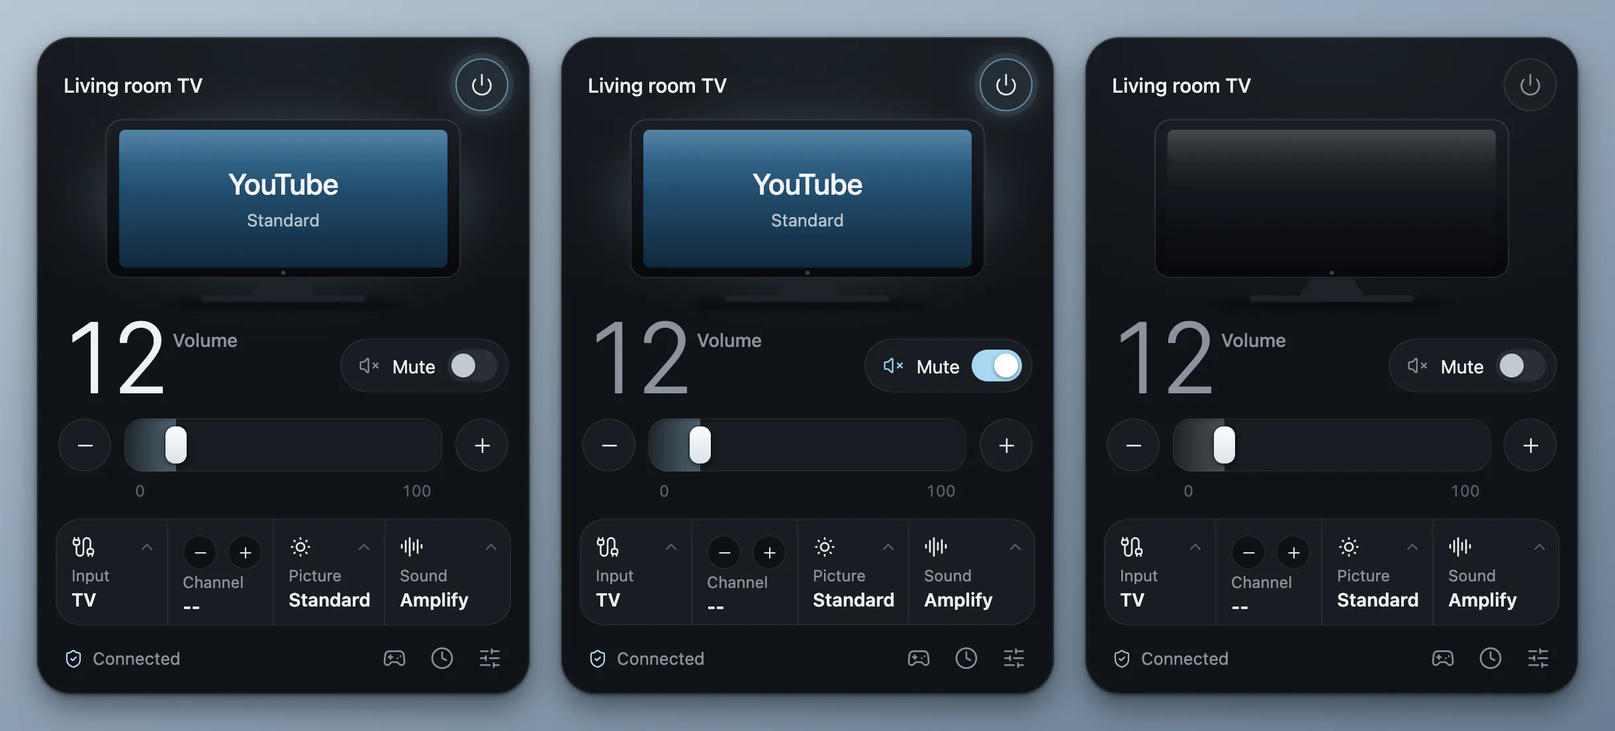
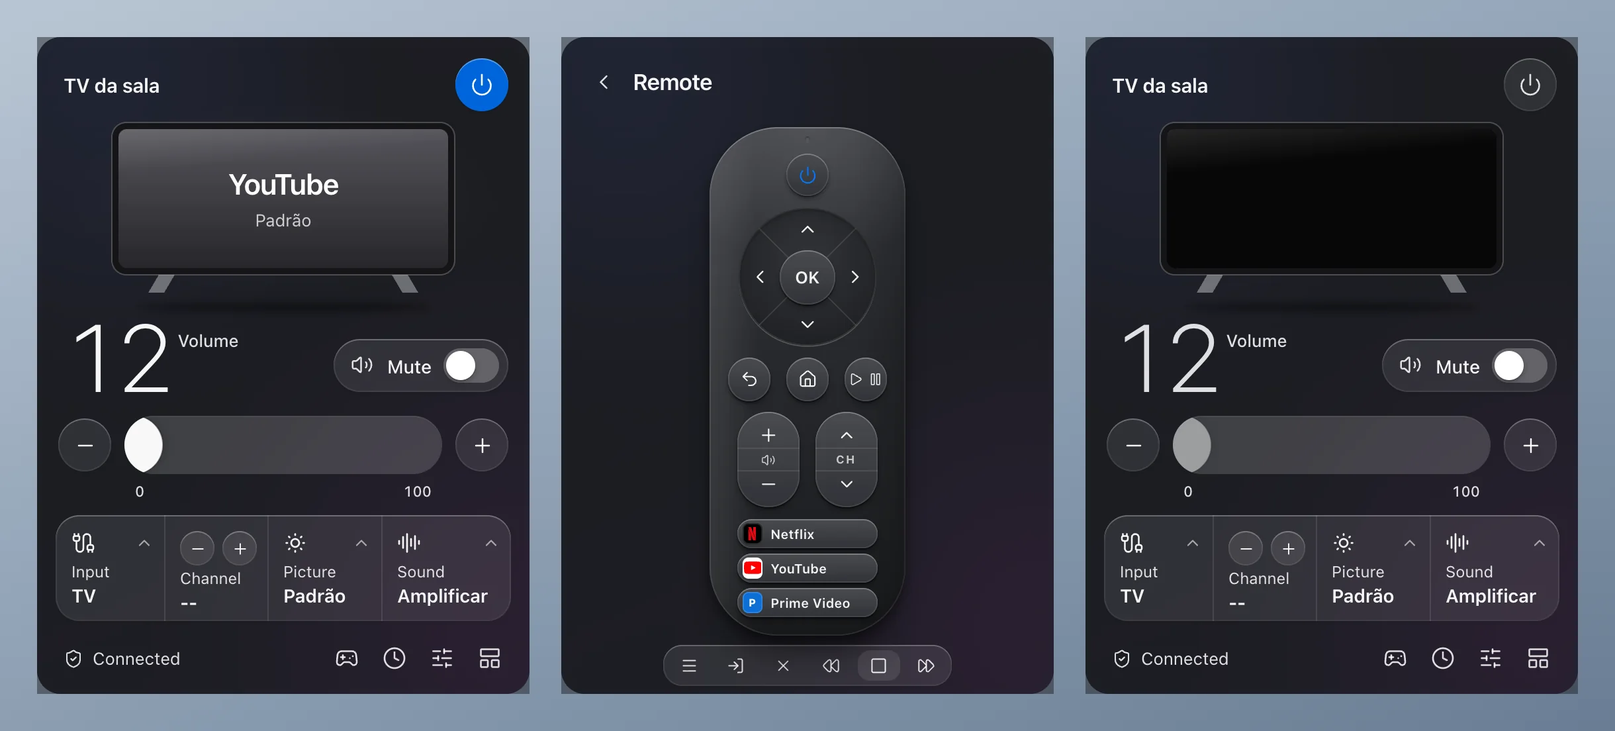
docs: update README, screenshots and demo for 0.2.0
The screenshots and the demo show the native look, the two panel styles
and the drawn remote. The README describes both styles, the remote's keys
and keyboard shortcuts, and credits Simple Icons for the app marks.

diff --git a/panel/page-apps.js b/panel/page-apps.js
@@ -1,5 +1,5 @@
 /* Apps: a grid of badges on its own page (a tab of the tabbed layout), and the shortcuts on the drawn remote. The list lives
-   in TV_APPS (labels.js). A badge is a colour block with an initial; official logos are not reproduced. */
+   in TV_APPS (labels.js). A badge is the app's mark when TV_APPS carries one, else a colour block with an initial. */
 
 function renderAppGrid() {
   byId('app-grid').replaceChildren(

diff --git a/README.md b/README.md
@@ -44,15 +44,15 @@ curl -fsSL https://raw.githubusercontent.com/kevinnfsilva/samsung-tv-menubar-app
 </div>
 
 <p align="center">
-  <img src="docs/hero.pt-BR.webp" width="830" alt="O painel do TV Remote em três estados: ligada com volume 12, com o mudo ligado e desligada" />
+  <img src="docs/hero.pt-BR.webp" width="830" alt="O painel compacto do TV Remote em três estados: ligada com volume 12, com o controle remoto aberto e desligada" />
 </p>
 
-Um painel na barra de menus do Mac para controlar uma TV Samsung pelo SmartThings. O ícone mostra o volume e, com um clique, abre o painel: ligar e desligar, volume, mudo, entrada, imagem, som, canal e um controle remoto na tela, com atalhos para Netflix, YouTube, Prime Video e Disney+.
+Um painel na barra de menus do Mac para controlar uma TV Samsung pelo SmartThings. O ícone mostra o volume e, com um clique, abre o painel: ligar e desligar, volume, mudo, entrada, imagem, som, canal e um controle remoto desenhado, com atalhos para Netflix, YouTube, Prime Video e Disney+.
 
 Este projeto nasceu do [WindFree](https://github.com/kevinnfsilva/samsung-windfree-menubar-app), o painel do ar-condicionado Samsung, e usa o mesmo código, com a parte da TV no lugar da parte do ar. O WindFree, por sua vez, é baseado no [app de bandeja para Windows](https://github.com/c0dag/samsung-windfree-tray-app) do [@c0dag](https://github.com/c0dag), que foi portado para a barra de menus do macOS.
 
 <p align="center">
-  <img src="docs/demo.pt-BR.gif" width="420" alt="Demonstração: o volume sobe, o mudo é ligado, a lista de entradas abre e a entrada muda para HDMI 2, o Controle abre e a Netflix é aberta" />
+  <img src="docs/demo.pt-BR.gif" width="420" alt="Demonstração: o volume sobe, o Controle abre, as teclas acendem a luz e a Netflix é aberta; o painel troca para as abas e volta" />
 </p>
 
 <p align="center"><sub>As imagens e a demonstração saem do código real do painel, com uma TV simulada. O ponteiro do vídeo foi desenhado por cima.</sub></p>
@@ -135,11 +135,14 @@ Com a barra de menus cheia, o que é comum nos MacBooks com notch, o ícone novo
 
 ## O que dá para fazer
 
+**Novidades da 0.2.0.** O painel usa o visual nativo do macOS: o material translúcido do sistema, os cantos e a sombra do sistema, controles no estilo da Central de Controle e uma só cor de destaque, a cor de destaque do sistema. O painel tem dois estilos, **Compacto** (o padrão) e **Abas**, trocados com um clique. O controle remoto agora é desenhado, nos dois estilos, com teclado próprio e uma luz que pisca a cada comando. Netflix e YouTube mostram a marca de cada app; Prime Video e Disney+ têm um selo desenhado. Há animações na abertura do painel, nos botões, na tela da TV, no volume, nos menus e nas trocas de página e de aba.
+
 - Ligar e desligar a TV pelo botão do painel, pelo menu do ícone ou com a tecla Espaço.
 - Ajustar o volume de 0 a 100 pelo controle deslizante, pelos botões − e + ou pelas setas ↑ e ↓. Ligar e desligar o mudo.
 - Trocar a **entrada**, o **modo de imagem** e o **modo de som**. As opções são as que a TV informa.
 - Trocar de canal com os botões − e + do cartão **Canal**, quando a TV informa o canal.
-- Usar o **Controle**: direcional, OK, Voltar, Início, Menu, botões de reprodução e atalhos para Netflix, YouTube, Prime Video e Disney+.
+- Usar o **Controle** desenhado: direcional, OK, Voltar, Início, teclas de volume, de canal e de app, botões de reprodução, Menu, Fonte e Sair. Também dá para usar o teclado.
+- Escolher o estilo do painel, **Compacto** ou **Abas**, com um clique.
 - Programar um **timer** (de 30 minutos a 8 horas) e **agendamentos** por horário e dia da semana.
 - Receber avisos: a TV ficar offline e a TV ficar ligada por muito tempo.
 - Abrir o painel por um atalho global (desligado por padrão).
@@ -147,7 +150,7 @@ Com a barra de menus cheia, o que é comum nos MacBooks com notch, o ícone novo
 - Aparência clara ou escura, seguindo o sistema, e telas em português ou inglês.
 - Mostrar o volume no ícone da barra de menus, abrir com o macOS, esconder o ícone do Dock e saber quando sai uma versão nova.
 
-Testado numa Samsung Crystal UHD de 75 polegadas (UN75CU8000): ligar e desligar pela rede, volume, mudo, modo de imagem, modo de som, abrir YouTube e Netflix, a tecla Início e as teclas de canal funcionaram. As setas, Voltar e play/pause são enviadas, mas a TV não informa se a tela mudou. O modo de imagem só muda enquanto alguma coisa está tocando. Timer, agendamentos e avisos foram testados só com uma TV simulada. Os atalhos de Prime Video e Disney+ não foram testados na TV. O instalador para Intel e o Windows não foram executados.
+Testado numa Samsung Crystal UHD de 75 polegadas (UN75CU8000) com o visual da 0.2.0: ligar e desligar pelo painel, trocar de estilo e as teclas de volume do controle desenhado. Continuam valendo os testes da 0.1.0, porque os comandos são os mesmos: ligar e desligar pela rede, volume, mudo, modo de imagem, modo de som, abrir YouTube e Netflix, a tecla Início e as teclas de canal funcionaram. As setas, Voltar e play/pause são enviadas, mas a TV não informa se a tela mudou. O modo de imagem só muda enquanto alguma coisa está tocando. Timer, agendamentos e avisos foram testados só com uma TV simulada. Os atalhos de Prime Video e Disney+ não foram testados na TV. O instalador para Intel e o Windows não foram executados.
 
 ## Uso
 
@@ -163,35 +166,59 @@ Testado numa Samsung Crystal UHD de 75 polegadas (UN75CU8000): ligar e desligar 
 
 ### O painel
 
-De cima para baixo:
+**Compacto** (o padrão) cabe numa tela só, de cima para baixo:
 
 - O nome da TV e o botão que liga e desliga a TV.
 - A tela da TV: mostra o app em uso (YouTube, Netflix e outros que o app reconhece) ou, se nenhum for reconhecido, a entrada, e embaixo o modo de imagem. Com a TV desligada, a tela fica escura.
 - O volume em número grande, o interruptor **Mudo**, o controle deslizante e os botões − e +.
-- Quatro cartões: **Entrada**, **Canal** (com − e +), **Imagem** e **Som**. Entrada, Imagem e Som abrem uma lista com as opções que a TV informa.
-- O rodapé mostra o estado, como "Conectado", "Sincronizando…" ou "A TV está offline", e tem os botões **Controle**, **Timer** e **Ajustes**.
+- Uma faixa com quatro células: **Entrada**, **Canal** (com − e +), **Imagem** e **Som**. Entrada, Imagem e Som abrem uma lista com as opções que a TV informa.
+- O rodapé mostra o estado, como "Conectado", "Sincronizando…" ou "A TV está offline", e tem os botões **Controle**, **Timer**, **Ajustes** e o de layout (veja abaixo).
+
+**Abas** é o mesmo painel com uma barra de abas de ícones (**Início**, **Controle**, **Apps**, **Rotinas** e **Ajustes**) e mais altura. Em **Início** ficam a TV, o volume, o cartão **Favoritos** (Netflix, YouTube, Prime Video e Disney+), o cartão **Entradas** e, mais abaixo, **Imagem** e **Som**. **Controle** é o controle remoto desenhado. **Apps** mostra os quatro apps em blocos. **Rotinas** tem o timer e os agendamentos. **Ajustes** tem **Aparelho** e **Preferências**. O rodapé mostra a conexão e o modelo da TV.
+
+<p align="center">
+  <img src="docs/tabs.pt-BR.webp" width="830" alt="O painel no estilo Abas: a aba Início, a aba Controle com o controle remoto desenhado e a aba Apps" />
+</p>
+
+Para trocar de estilo, use o botão de layout: no rodapé do Compacto, ou ao lado da barra de abas no Abas. A escolha também fica em **Ajustes > Preferências > Estilo do painel**, e o painel abre no estilo escolhido por último.
 
 Quando algo dá errado, o rodapé diz o quê: "Sem internet ou SmartThings fora do ar", "A TV está offline", "Nenhuma TV nesta conta", "Esta TV não está mais na conta" (com o atalho **Escolher outra TV**), "O SmartThings demorou para responder" ou "Sem resposta do SmartThings". Quase todos trazem **Tentar de novo**. Quando a TV não confirma uma mudança, o rodapé diz quais ajustes ficaram sem confirmação.
 
 ### Controle
 
 <p align="center">
-  <img src="docs/remote.pt-BR.webp" width="830" alt="A página Controle, um menu de entrada aberto na tela principal e o menu do timer com um timer ativo" />
+  <img src="docs/remote.pt-BR.webp" width="830" alt="A página Controle, o menu de entrada aberto e o menu do timer com um timer ativo" />
 </p>
 
-Clique no ícone de controle no rodapé. A página **Controle** tem:
+O controle remoto é desenhado e aparece nos dois estilos: no Compacto, pelo botão **Controle** do rodapé; no Abas, pela aba **Controle**. Ele tem:
 
-- O direcional (↑, ←, OK, →, ↓), e abaixo **Voltar**, **Início** e **Menu**.
-- Os botões de reprodução: retroceder, reproduzir, pausar, parar e avançar.
-- **Apps**, com **Netflix**, **YouTube**, **Prime Video** e **Disney+**, que abrem o app na TV.
+- Um botão de ligar e desligar no topo, e o direcional (↑, ←, OK, →, ↓).
+- **Voltar**, **Início** e o botão de reproduzir ou pausar.
+- Um balancim de volume (+ e −), com o **Mudo** no meio, e um balancim de canal (**CH** ↑ e ↓).
+- Três teclas de app: **Netflix**, **YouTube** e **Prime Video**, que abrem o app na TV.
+- Uma linha com **Menu**, **Fonte**, **Sair**, **Retroceder**, **Parar** e **Avançar**.
+- Uma luz no topo que pisca a cada comando enviado.
 
-Com a página aberta, as setas do teclado são o direcional, Enter é OK (quando nenhum botão está com o foco) e Backspace é Voltar. Cada toque vai para a TV na ordem em que foi dado. O Controle passa pelo SmartThings, então cada tecla leva um ou dois segundos; navegar em menus com as setas é mais lento que o controle físico.
+O **Disney+** só aparece no Abas, nos **Favoritos** e na aba **Apps**. O Compacto não tem tecla para ele.
+
+Com o controle aberto, o teclado manda:
+
+| Tecla | Função |
+|---|---|
+| ↑ ↓ ← → | Direcional |
+| Enter | OK (quando nenhum botão está com o foco) |
+| Backspace | Voltar |
+| Espaço | Reproduzir ou pausar (quando nenhum botão está com o foco) |
+| + e − | Volume |
+| M | Ligar ou desligar o mudo |
+
+Cada toque vai para a TV na ordem em que foi dado. O Controle passa pelo SmartThings, então cada tecla leva um ou dois segundos; navegar em menus com as setas é mais lento que o controle físico.
 
 ### Timer e agendamentos
 
-**Timer.** Clique no relógio do rodapé. Com a TV ligada, as opções são "Desligar em 30 min", 1 h, 2 h, 4 h e 8 h; com a TV desligada, são as mesmas para ligar. O rodapé mostra "Desliga às…" ou "Liga às…" enquanto o timer está ativo, e **Cancelar timer** o desfaz. Só existe um timer por vez.
+**Timer.** Clique no relógio do rodapé (no Compacto). No Abas, o timer fica na aba **Rotinas**. Com a TV ligada, as opções são "Desligar em 30 min", 1 h, 2 h, 4 h e 8 h; com a TV desligada, são as mesmas para ligar. O rodapé mostra "Desliga às…" ou "Liga às…" enquanto o timer está ativo, e **Cancelar timer** o desfaz. Só existe um timer por vez.
 
-**Agendamentos.** Em **Ajustes > Agendamentos**, escolha a hora, os dias da semana e a ação (**Ligar** ou **Desligar**). Os dias podem ser todos, dias úteis, fins de semana ou uma combinação. Cada agendamento tem um botão para ativar ou desativar e uma lixeira.
+**Agendamentos.** Em **Ajustes > Agendamentos** (no Abas, na aba **Rotinas**), escolha a hora, os dias da semana e a ação (**Ligar** ou **Desligar**). Os dias podem ser todos, dias úteis, fins de semana ou uma combinação. Cada agendamento tem um botão para ativar ou desativar e uma lixeira.
 
 Valem algumas regras para o timer e os agendamentos:
 
@@ -225,6 +252,8 @@ O painel acompanha o modo claro ou escuro do sistema.
   <img src="docs/themes.pt-BR.webp" width="600" alt="O painel principal e os ajustes, lado a lado em modo escuro e em modo claro" />
 </p>
 
+O material translúcido do painel é o desfoque clássico do macOS, não o "liquid glass" mais novo da Apple, que o Electron ainda não oferece. No modo escuro, sobre um fundo claro, o painel fica cinza médio.
+
 O idioma fica em **Ajustes > Preferências > Idioma**: Automático, Português ou English. No Automático, o app usa português quando o macOS está em português e inglês em qualquer outro caso. O menu do ícone e os avisos seguem o mesmo idioma.
 
 ### Ajustes
@@ -233,7 +262,7 @@ O idioma fica em **Ajustes > Preferências > Idioma**: Automático, Português o
   <img src="docs/settings.pt-BR.webp" width="830" alt="A página de ajustes, a lista de aparelhos com a TV escolhida e a página de agendamentos" />
 </p>
 
-Em **Ajustes** ficam três páginas: **Aparelho** (a lista de TVs da conta), **Agendamentos** e **Preferências**. Preferências tem os avisos, o atalho global, o volume no ícone (só no Mac), **Mostrar o ícone no Dock** (só no Mac), **Abrir com o macOS**, **Procurar versões novas** e o **Idioma**.
+Em **Ajustes** ficam três páginas: **Aparelho** (a lista de TVs da conta), **Agendamentos** e **Preferências**. Preferências tem os avisos, o atalho global, o volume no ícone (só no Mac), **Mostrar o ícone no Dock** (só no Mac), **Abrir com o macOS**, **Procurar versões novas**, o **Estilo do painel** e o **Idioma**. No Abas, Ajustes mostra só **Aparelho** e **Preferências**; os agendamentos ficam na aba **Rotinas**.
 
 ### Versões novas
 
@@ -368,6 +397,7 @@ No Windows, desligue "Abrir com o Windows" nos ajustes, clique em **Sair** no me
 ## Créditos
 
 - O código vem do [WindFree](https://github.com/kevinnfsilva/samsung-windfree-menubar-app), o painel do ar-condicionado Samsung do mesmo autor. O WindFree é baseado no app de bandeja para Windows, o [samsung-windfree-tray-app](https://github.com/c0dag/samsung-windfree-tray-app) do [@c0dag](https://github.com/c0dag).
+- Marcas de Netflix e YouTube do [Simple Icons](https://simpleicons.org), sob licença CC0. As marcas pertencem aos seus donos.
 - Ícones do [Lucide](https://lucide.dev).
 
 Projeto independente, sem vínculo com a Samsung.

diff --git a/README.en.md b/README.en.md
@@ -44,15 +44,15 @@ curl -fsSL https://raw.githubusercontent.com/kevinnfsilva/samsung-tv-menubar-app
 </div>
 
 <p align="center">
-  <img src="docs/hero.en.webp" width="830" alt="The TV Remote panel in three states: on at volume 12, with mute on, and off" />
+  <img src="docs/hero.en.webp" width="830" alt="The compact TV Remote panel in three states: on at volume 12, with the drawn remote open, and off" />
 </p>
 
-A menu bar panel for the Mac that controls a Samsung TV through SmartThings. The icon shows the volume, and one click opens the panel: power, volume, mute, input, picture, sound, channel and an on-screen remote, with shortcuts to Netflix, YouTube, Prime Video and Disney+.
+A menu bar panel for the Mac that controls a Samsung TV through SmartThings. The icon shows the volume, and one click opens the panel: power, volume, mute, input, picture, sound, channel and a drawn remote control, with shortcuts to Netflix, YouTube, Prime Video and Disney+.
 
 This project grew out of [WindFree](https://github.com/kevinnfsilva/samsung-windfree-menubar-app), the Samsung air conditioner panel, and uses the same code with the TV part in place of the air conditioner part. WindFree, in turn, is based on the [Windows tray app](https://github.com/c0dag/samsung-windfree-tray-app) by [@c0dag](https://github.com/c0dag), ported to the macOS menu bar.
 
 <p align="center">
-  <img src="docs/demo.en.gif" width="420" alt="Demo: the volume goes up, mute is turned on, the input list opens and the input changes to HDMI 2, the Remote opens and Netflix is launched" />
+  <img src="docs/demo.en.gif" width="420" alt="Demo: the volume goes up, the Remote opens, the keys light up and Netflix is launched; the panel switches to tabs and back" />
 </p>
 
 <p align="center"><sub>The images and the demo come from the real panel code, with a simulated TV. The pointer in the video was drawn on top.</sub></p>
@@ -135,11 +135,14 @@ With a full menu bar, which is common on MacBooks with a notch, the new icon may
 
 ## What it does
 
+**What's new in 0.2.0.** The panel now uses the macOS look: the system's translucent material, its corners and shadow, controls in the Control Center style and one accent colour, the system accent. The panel has two styles, **Compact** (the default) and **Tabs**, switched with one click. The remote control is drawn in both styles, with its own keyboard and a light that blinks on every command. Netflix and YouTube show each app's mark; Prime Video and Disney+ show a drawn badge. Animations run when the panel opens, on buttons, on the TV screen, on the volume, on menus and on page and tab changes.
+
 - Switch the TV on and off from the panel button, from the menu bar icon, or with the Space key.
 - Set the volume from 0 to 100 with the slider, the − and + buttons or the ↑ and ↓ keys. Turn mute on and off.
 - Change the **input**, the **picture mode** and the **sound mode**. The options are the ones the TV reports.
 - Change channel with the − and + buttons on the **Channel** cell, when the TV reports its channel.
-- Use the **Remote**: directional pad, OK, Back, Home, Menu, playback buttons and shortcuts to Netflix, YouTube, Prime Video and Disney+.
+- Use the drawn **Remote**: directional pad, OK, Back, Home, volume, channel and app keys, playback buttons, Menu, Source and Exit. The keyboard works too.
+- Pick the panel style, **Compact** or **Tabs**, with one click.
 - Set a **timer** (30 minutes to 8 hours) and **schedules** by time and weekday.
 - Get notifications: the TV going offline, and the TV being left on for a long time.
 - Open the panel with a global shortcut (off by default).
@@ -147,7 +150,7 @@ With a full menu bar, which is common on MacBooks with a notch, the new icon may
 - Light or dark appearance, following the system, and screens in Portuguese or English.
 - Show the volume in the menu bar icon, start with macOS, hide the Dock icon, and find out when a new version is out.
 
-Tested on a Samsung Crystal UHD 75-inch (UN75CU8000): power on and off over the network, volume, mute, picture mode, sound mode, launching YouTube and Netflix, the Home key and the channel keys worked. The arrow keys, Back and play/pause are sent, but the TV does not report whether the screen changed. Picture mode only changes while something is playing. Timer, schedules and notifications were tested only with a simulated TV. The Prime Video and Disney+ shortcuts were not tried on the TV. The Intel installer and Windows were not run.
+Tested on a Samsung Crystal UHD 75-inch (UN75CU8000) with the 0.2.0 look: power on and off from the panel, switching styles and the volume keys of the drawn remote. The 0.1.0 tests still stand, because the commands are the same: power on and off over the network, volume, mute, picture mode, sound mode, launching YouTube and Netflix, the Home key and the channel keys worked. The arrow keys, Back and play/pause are sent, but the TV does not report whether the screen changed. Picture mode only changes while something is playing. Timer, schedules and notifications were tested only with a simulated TV. The Prime Video and Disney+ shortcuts were not tried on the TV. The Intel installer and Windows were not run.
 
 ## Usage
 
@@ -163,35 +166,59 @@ Tested on a Samsung Crystal UHD 75-inch (UN75CU8000): power on and off over the 
 
 ### The panel
 
-From top to bottom:
+**Compact** (the default) fits on one screen, from top to bottom:
 
 - The TV's name and the button that turns the TV on and off.
 - The TV screen: it shows the app in use (YouTube, Netflix and others the app recognizes) or, if none is recognized, the input, with the picture mode below it. With the TV off, the screen is dark.
 - The volume as a large number, the **Mute** switch, the slider and the − and + buttons.
-- Four cells: **Input**, **Channel** (with − and +), **Picture** and **Sound**. Input, Picture and Sound open a list of the options the TV reports.
-- The footer shows the status, such as "Connected", "Syncing…" or "The TV is offline", and has the **Remote**, **Timer** and **Settings** buttons.
+- A strip of four cells: **Input**, **Channel** (with − and +), **Picture** and **Sound**. Input, Picture and Sound open a list of the options the TV reports.
+- The footer shows the status, such as "Connected", "Syncing…" or "The TV is offline", and has the **Remote**, **Timer**, **Settings** and layout buttons (see below).
+
+**Tabs** is the same panel with a bar of icon tabs (**Home**, **Remote**, **Apps**, **Routines** and **Settings**) and more height. **Home** has the TV, the volume, a **Favorites** card (Netflix, YouTube, Prime Video and Disney+), an **Inputs** card and, further down, **Picture** and **Sound**. **Remote** is the drawn remote control. **Apps** shows the four apps as tiles. **Routines** has the timer and the schedules. **Settings** has **Device** and **Preferences**. The footer shows the connection and the TV's model.
+
+<p align="center">
+  <img src="docs/tabs.en.webp" width="830" alt="The Tabs panel: the Home tab, the Remote tab with the drawn remote control and the Apps tab" />
+</p>
+
+To switch styles, use the layout button: in the footer of Compact, or beside the tab bar in Tabs. The choice is also in **Settings > Preferences > Panel style**, and the panel opens in the style you picked last.
 
 When something goes wrong, the footer says what: "No internet or SmartThings is down", "The TV is offline", "No TV on this account", "This TV is no longer on the account" (with the **Choose another TV** shortcut), "SmartThings took too long to respond" or "SmartThings is not responding". Almost all of them come with **Try again**. When the TV does not confirm a change, the footer says which settings were left unconfirmed.
 
 ### Remote
 
 <p align="center">
-  <img src="docs/remote.en.webp" width="830" alt="The Remote page, an input menu open on the main view, and the timer menu with an active timer" />
+  <img src="docs/remote.en.webp" width="830" alt="The Remote page, the input menu open and the timer menu with an active timer" />
 </p>
 
-Click the remote icon in the footer. The **Remote** page has:
+The remote control is drawn and shows in both styles: in Compact, with the **Remote** button in the footer; in Tabs, on the **Remote** tab. It has:
 
-- The directional pad (↑, ←, OK, →, ↓), with **Back**, **Home** and **Menu** below it.
-- The playback buttons: rewind, play, pause, stop and fast forward.
-- **Apps**, with **Netflix**, **YouTube**, **Prime Video** and **Disney+**, which open the app on the TV.
+- A power button at the top, and the directional pad (↑, ←, OK, →, ↓).
+- **Back**, **Home** and the play or pause button.
+- A volume rocker (+ and −), with **Mute** in the middle, and a channel rocker (**CH** ↑ and ↓).
+- Three app keys: **Netflix**, **YouTube** and **Prime Video**, which open the app on the TV.
+- A row with **Menu**, **Source**, **Exit**, **Rewind**, **Stop** and **Fast forward**.
+- A light at the top that blinks on every command sent.
 
-With the page open, the keyboard arrows are the directional pad, Enter is OK (when no button has focus) and Backspace is Back. Each press goes to the TV in the order you made it. The remote goes through SmartThings, so each press takes a second or two; moving through menus with the arrows is slower than with the physical remote.
+**Disney+** appears only in Tabs, in **Favorites** and on the **Apps** tab. Compact has no key for it.
+
+With the remote open, the keyboard does this:
+
+| Key | Does |
+|---|---|
+| ↑ ↓ ← → | Directional pad |
+| Enter | OK (when no button has focus) |
+| Backspace | Back |
+| Space | Play or pause (when no button has focus) |
+| + and − | Volume |
+| M | Mute on or off |
+
+Each press goes to the TV in the order you made it. The remote goes through SmartThings, so each press takes a second or two; moving through menus with the arrows is slower than with the physical remote.
 
 ### Timer and schedules
 
-**Timer.** Click the clock in the footer. With the TV on, the options are "Turn off in 30 min", 1 h, 2 h, 4 h and 8 h; with the TV off, they are the same to turn it on. The footer shows "Turns off at…" or "Turns on at…" while the timer is active, and **Cancel timer** undoes it. There is only one timer at a time.
+**Timer.** Click the clock in the footer (in Compact). In Tabs, the timer is on the **Routines** tab. With the TV on, the options are "Turn off in 30 min", 1 h, 2 h, 4 h and 8 h; with the TV off, they are the same to turn it on. The footer shows "Turns off at…" or "Turns on at…" while the timer is active, and **Cancel timer** undoes it. There is only one timer at a time.
 
-**Schedules.** In **Settings > Schedules**, choose the time, the weekdays and the action (**Turn on** or **Turn off**). The days can be every day, weekdays, weekends or any combination. Each schedule has a switch to enable or disable it and a trash can.
+**Schedules.** In **Settings > Schedules** (in Tabs, on the **Routines** tab), choose the time, the weekdays and the action (**Turn on** or **Turn off**). The days can be every day, weekdays, weekends or any combination. Each schedule has a switch to enable or disable it and a trash can.
 
 A few rules apply to the timer and the schedules:
 
@@ -225,6 +252,8 @@ The panel follows the system's light or dark mode.
   <img src="docs/themes.en.webp" width="600" alt="The main panel and the settings, side by side in dark mode and in light mode" />
 </p>
 
+The translucent material is the classic macOS blur, not Apple's newest "liquid glass", which Electron does not offer. In dark appearance, over a bright desktop, the panel reads as a mid grey.
+
 The language is in **Settings > Preferences > Language**: Automatic, Português or English. With Automatic, the app uses Portuguese when macOS is in Portuguese and English in any other case. The icon's menu and the notifications follow the same language.
 
 ### Settings
@@ -233,7 +262,7 @@ The language is in **Settings > Preferences > Language**: Automatic, Português 
   <img src="docs/settings.en.webp" width="830" alt="The settings root page, the device list with the TV selected, and the schedules page" />
 </p>
 
-**Settings** has three pages: **Device** (the list of TVs on the account), **Schedules** and **Preferences**. Preferences holds the notifications, the global shortcut, the volume in the icon (Mac only), **Show the icon in the Dock** (Mac only), **Open at login**, **Check for new versions** and the **Language**.
+**Settings** has three pages: **Device** (the list of TVs on the account), **Schedules** and **Preferences**. Preferences holds the notifications, the global shortcut, the volume in the icon (Mac only), **Show the icon in the Dock** (Mac only), **Open at login**, **Check for new versions**, **Panel style** and the **Language**. In Tabs, Settings shows only **Device** and **Preferences**; the schedules are on the **Routines** tab.
 
 ### New versions
 
@@ -368,6 +397,7 @@ On Windows, turn off "Open at login" in the settings, click **Quit** in the icon
 ## Credits
 
 - The code comes from [WindFree](https://github.com/kevinnfsilva/samsung-windfree-menubar-app), the Samsung air conditioner panel by the same author. WindFree is based on the Windows tray app, [samsung-windfree-tray-app](https://github.com/c0dag/samsung-windfree-tray-app) by [@c0dag](https://github.com/c0dag).
+- Netflix and YouTube marks from [Simple Icons](https://simpleicons.org), under the CC0 licence. The trademarks belong to their owners.
 - Icons from [Lucide](https://lucide.dev).
 
 Independent project, not affiliated with Samsung.
